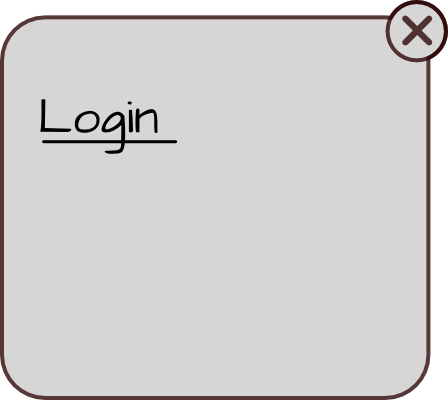
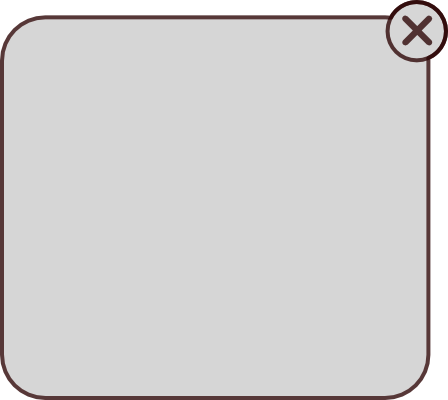
form alignment

Changed region(s): [[0.0938, 0.24, 0.4062, 0.39]]

diff --git a/desktop/src/be/teamsheepy/sheepherder/desktop/DesktopLauncher.java b/desktop/src/be/teamsheepy/sheepherder/desktop/DesktopLauncher.java
@@ -27,7 +27,7 @@ public class DesktopLauncher {
 //	    settings.filterMag = TextureFilter.Nearest;
 //	    settings.filterMin = TextureFilter.Nearest;
 //	    settings.flattenPaths = true;
-//      TexturePacker.process(settings, "/users/probberechts/Development/SheepHerder/graphics/png", "/users/probberechts/Development/SheepHerder/android/assets", "game");
+//      	TexturePacker.process(settings, "/users/probberechts/Development/SheepHerder/graphics/png", "/users/probberechts/Development/SheepHerder/android/assets", "game");
         //TexturePacker.process(settings, "D:/Schakeljaar Master TI/HCI/DEV/SheepHerder/graphics/png", "D:/Schakeljaar Master TI/HCI/DEV/SheepHerder/android/assets", "game");
 
 		

diff --git a/core/src/be/teamsheepy/sheepherder/SavedData.java b/core/src/be/teamsheepy/sheepherder/SavedData.java
@@ -55,14 +55,14 @@ public class SavedData {
 		save();
 	}
 
-	public static void setUser(String userName, String password) {
-		SavedData.userName = userName;
-		SavedData.password = password;
+	public static void setUser(String user, String pass) {
+		userName = user;
+		password = pass;
 		save();
 	}
 
 	public static void logout() {
-		SavedData.password = "";
+		password = "";
 		save();
 	}
 

diff --git a/core/src/be/teamsheepy/sheepherder/SheepHerder.java b/core/src/be/teamsheepy/sheepherder/SheepHerder.java
@@ -11,7 +11,7 @@ import com.badlogic.gdx.graphics.g2d.SpriteBatch;
 
 public class SheepHerder extends Game {
 
-	public static final boolean DEBUG = true;
+	public static final boolean DEBUG = false;
 	public static final String VERSION = "6";
 	public static final String TRACKER_ID = "UA-56280744-3";
 	public static final String DEBUG_TRACKER_ID = "UA-56280744-1";

diff --git a/core/src/be/teamsheepy/sheepherder/screens/LoginScreen.java b/core/src/be/teamsheepy/sheepherder/screens/LoginScreen.java
@@ -170,7 +170,7 @@ public class LoginScreen extends Screen {
 
         
         table.row().height(50);
-        table.add(loginLabel).width(300).padTop(50f);
+        table.add(loginLabel).width(300).padTop(5f);
         table.row().height(50);
         table.add(userField).center().width(300).pad(5f);
         table.row().height(50);
